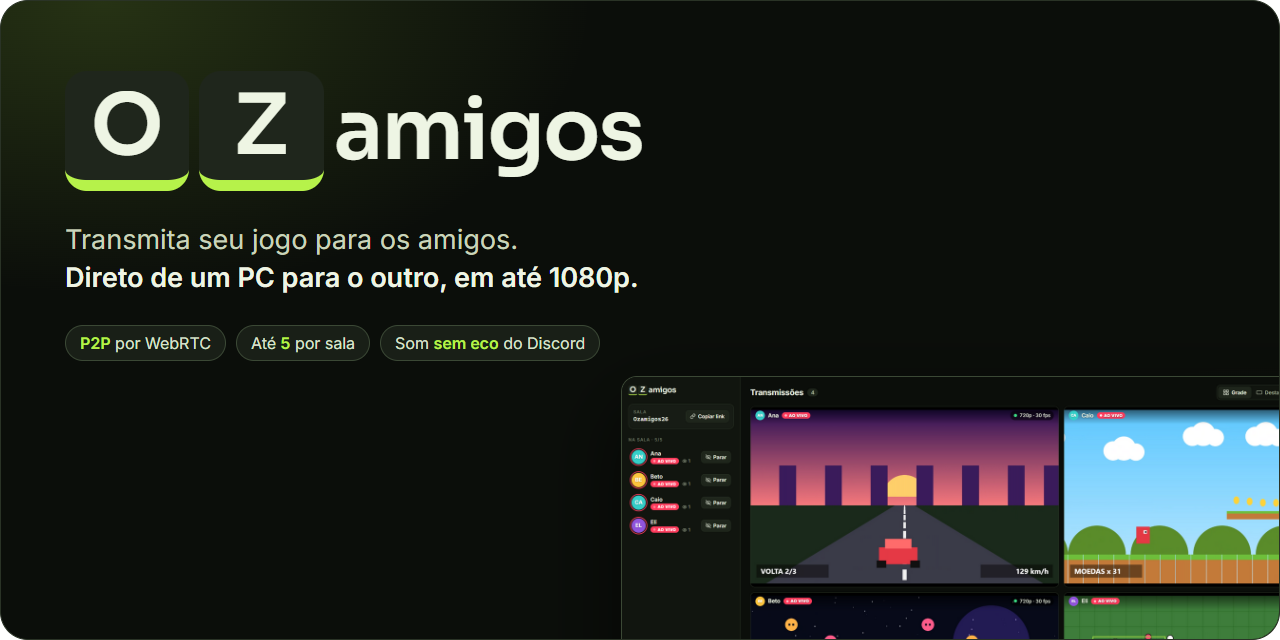
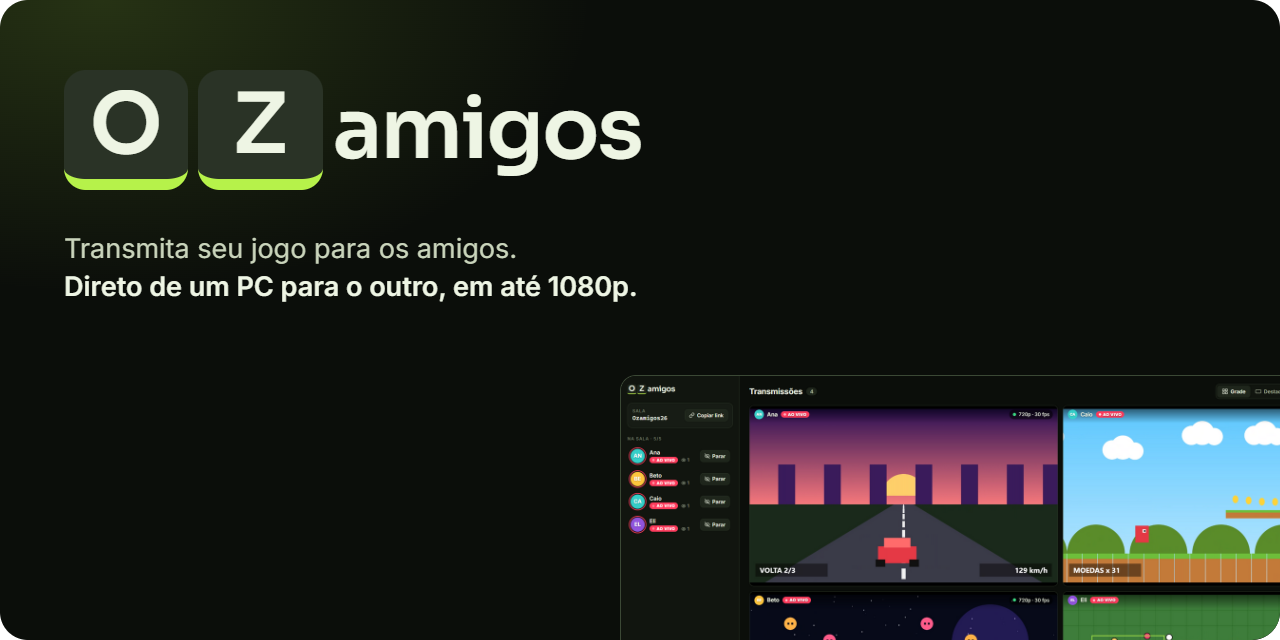
README com o logotipo no topo, no lugar da capa
- Logotipo em duas versões (tema claro e escuro do GitHub), escolhidas pelo <picture>
- Selo com a versão mais recente e links apontando para o repositório ozamigos
- docs/vitrine/marca.js gera o logotipo e a prévia de link

diff --git a/docs/vitrine/marca.html b/docs/vitrine/marca.html
@@ -1,0 +1,48 @@
+<!doctype html>
+<html lang="pt-BR">
+<head>
+<meta charset="utf-8">
+<style>
+  @font-face { font-family: 'Sora'; font-weight: 100 800; src: url('../../desktop/build/sora.woff2'); }
+  @font-face { font-family: 'Inter'; font-weight: 100 900; src: url('../../web/node_modules/@fontsource-variable/inter/files/inter-latin-wght-normal.woff2'); }
+  html, body { margin: 0; background: transparent; }
+
+  /* O logotipo: "O" e "Z" em teclas, seguidos de "amigos". */
+  .logo { display: inline-flex; align-items: center; padding: 6px; font-family: 'Sora'; font-weight: 600; font-size: 96px; letter-spacing: -0.02em; line-height: 1; }
+  .tecla { display: inline-grid; place-items: center; min-width: 1.2em; height: 1.3em; margin-right: 0.12em; padding: 0 0.14em; border-bottom: 0.14em solid #b6f24a; border-radius: 0.26em; letter-spacing: 0; }
+  /* Tema escuro do GitHub: tecla um pouco mais clara que o fundo e texto claro. */
+  .tema-escuro .tecla { background: #2a3326; color: #eef5e4; }
+  .tema-escuro .resto { color: #eef5e4; }
+  /* Tema claro: tecla escura, como num teclado, e texto quase preto. */
+  .tema-claro .tecla { background: #1f261c; color: #eef5e4; }
+  .tema-claro .resto { color: #0f130e; }
+
+  /* Prévia de link (1280x640): logotipo, frase e um pedaço da sala. */
+  .social { position: relative; overflow: hidden; width: 1280px; height: 640px; border-radius: 28px;
+    background: radial-gradient(700px 420px at 8% 0%, rgb(182 242 74 / 0.16), transparent 70%), #0b0e0a;
+    font-family: 'Inter', sans-serif; color: #eef5e4; }
+  .social .logo { position: absolute; left: 58px; top: 64px; font-size: 84px; }
+  .social .frase { position: absolute; left: 64px; top: 230px; margin: 0; font-size: 27px; line-height: 1.4; color: #c9d4bb; }
+  .social .frase strong { color: #eef5e4; font-weight: 600; }
+  .social .print { position: absolute; left: 620px; top: 375px; width: 760px; border-radius: 16px; border: 1px solid #3b4835; }
+  [hidden] { display: none !important; }
+</style>
+</head>
+<body>
+  <div id="logo" class="logo" hidden><span class="tecla">O</span><span class="tecla">Z</span><span class="resto">amigos</span></div>
+  <div id="social" class="social tema-escuro" hidden>
+    <div class="logo"><span class="tecla">O</span><span class="tecla">Z</span><span class="resto">amigos</span></div>
+    <p class="frase">Transmita seu jogo para os amigos.<br><strong>Direto de um PC para o outro, em até 1080p.</strong></p>
+    <img class="print" src="../imagens/sala-grade.png" alt="">
+  </div>
+  <script>
+    const modo = new URLSearchParams(location.search).get('modo');
+    if (modo === 'social') {
+      document.getElementById('social').hidden = false;
+    } else {
+      document.getElementById('logo').hidden = false;
+      document.body.classList.add(modo);
+    }
+  </script>
+</body>
+</html>

diff --git a/docs/vitrine/marca.js b/docs/vitrine/marca.js
@@ -1,0 +1,62 @@
+// Gera em docs/imagens:
+// - logo-tema-escuro.png e logo-tema-claro.png: o logotipo com fundo transparente (2x), um para cada tema do GitHub;
+// - social.png (1280x640): a prévia de link, enviada à mão em Settings → Social preview.
+// A social.png usa a docs/imagens/sala-grade.png: rode captura.js antes, se a interface mudou.
+// Uso, a partir da raiz: desktop\node_modules\.bin\electron docs\vitrine\marca.js
+const { app, BrowserWindow } = require('electron');
+const fs = require('node:fs');
+const path = require('node:path');
+
+app.commandLine.appendSwitch('force-device-scale-factor', '1');
+app.on('window-all-closed', () => {});
+
+const IMAGENS = path.join(__dirname, '..', 'imagens');
+
+async function abrir(modo, largura, altura, escala) {
+  const w = new BrowserWindow({
+    width: largura * escala,
+    height: altura * escala,
+    useContentSize: true,
+    show: false,
+    transparent: true,
+    backgroundColor: '#00000000',
+    webPreferences: { offscreen: true },
+  });
+  await w.loadFile(path.join(__dirname, 'marca.html'), { query: { modo } });
+  w.webContents.setZoomFactor(escala);
+  await w.webContents.executeJavaScript('document.fonts.ready.then(() => new Promise((r) => setTimeout(r, 400)))');
+  return w;
+}
+
+async function logo(modo, arquivo) {
+  const escala = 2;
+  const w = await abrir(modo, 900, 200, escala);
+  // Recorta só o logotipo: a imagem fica do tamanho exato dele.
+  const r = await w.webContents.executeJavaScript(
+    'JSON.parse(JSON.stringify(document.getElementById("logo").getBoundingClientRect()))',
+  );
+  const img = await w.webContents.capturePage({
+    x: Math.floor(r.x * escala),
+    y: Math.floor(r.y * escala),
+    width: Math.ceil(r.width * escala),
+    height: Math.ceil(r.height * escala),
+  });
+  fs.writeFileSync(path.join(IMAGENS, arquivo), img.toPNG());
+  console.log(arquivo, img.getSize());
+  w.destroy();
+}
+
+async function social() {
+  const w = await abrir('social', 1280, 640, 1);
+  const img = await w.webContents.capturePage();
+  fs.writeFileSync(path.join(IMAGENS, 'social.png'), img.toPNG());
+  console.log('social.png', img.getSize());
+  w.destroy();
+}
+
+app.whenReady().then(async () => {
+  await logo('tema-escuro', 'logo-tema-escuro.png');
+  await logo('tema-claro', 'logo-tema-claro.png');
+  await social();
+  app.quit();
+});

diff --git a/docs/vitrine/captura.js b/docs/vitrine/captura.js
@@ -2,7 +2,7 @@
 // senha "teste"), cada um com um "jogo" desenhado por código (jogo-falso.js).
 // Uso, a partir da raiz do repositório, com o servidor rodando e o ffmpeg no PATH:
 //   desktop\node_modules\.bin\electron docs\vitrine\captura.js
-// As imagens saem em docs/imagens. Depois, para a capa: desktop\node_modules\.bin\electron docs\vitrine\capa.js
+// As imagens saem em docs/imagens. Depois, para o logo e a prévia de link: desktop\node_modules\.bin\electron docs\vitrine\marca.js
 const { app, BrowserWindow, session } = require('electron');
 const { spawnSync } = require('node:child_process');
 const fs = require('node:fs');

diff --git a/AGENTS.md b/AGENTS.md
@@ -27,7 +27,7 @@ Deploy: Render (Docker). O `Dockerfile` tem 3 etapas: Node monta `web/`, o JDK c
 
 ## Marca
 
-- **Nome:** "Ozamigos" (até a 1.0.2 era "Ozamigos Share"). O nome novo vale para tudo o que o usuário vê. Os nomes internos ficam como estão: o repositório, o pacote `dev.ozamigos`, o `OzamigosSom.exe`, a variável `OZAMIGOS_SENHA`, as chaves `ozamigos-*` do `localStorage` e o endereço no Render.
+- **Nome:** "Ozamigos" (até a 1.0.2 era "Ozamigos Share"). O nome novo vale para tudo o que o usuário vê. O repositório público é `kayokalinauskas/ozamigos`. O antigo, `ozamigos-share-app`, ficou privado e parado, com o histórico anterior à troca do e-mail dos commits. Os nomes internos ficam como estão: o pacote `dev.ozamigos`, o `OzamigosSom.exe`, a variável `OZAMIGOS_SENHA`, as chaves `ozamigos-*` do `localStorage` e o endereço no Render.
 - **Não mude:**
   - o `appId` (`dev.ozamigos.share`): com ele, o instalador novo reconhece e substitui o antigo;
   - a pasta de dados `%APPDATA%\Ozamigos Share`, fixada com `app.setPath('userData', ...)` no topo do `main.js`. Sem isso, o nome novo levaria o Electron para uma pasta vazia e todos perderiam o servidor, o nome, a senha e os volumes.
@@ -144,14 +144,14 @@ java -jar target\ozamigos-share-0.0.1-SNAPSHOT.jar --spring.web.resources.static
 
 ## Imagens do README
 
-As telas, o GIF e a capa em `docs/imagens` são gerados por scripts em `docs/vitrine`, com a interface de verdade. **Refaça-os quando a interface mudar de cara.**
+O logotipo, as telas e o GIF em `docs/imagens` são gerados por scripts em `docs/vitrine`, com a interface de verdade. **Refaça-os quando a interface mudar de cara.**
 
 1. Monte a interface (`npm run build` em `web`) e suba o servidor local na porta **8090** com a senha **teste**.
 2. Na raiz: `desktop\node_modules\.bin\electron docs\vitrine\captura.js`. São janelas invisíveis, com o som mudo e as notificações bloqueadas.
    - Cinco amigos fictícios (Ana, Beto, Caio, Duda e Eli) entram na sala `Ozamigos26`, cada um transmitindo um "jogo" desenhado por código (`jogo-falso.js`). Nunca use imagem de jogo de verdade.
    - Saem `entrada.png`, `sala-grade.png`, `sala-destaque.png` e `demo.gif`. O GIF é montado pelo ffmpeg, que precisa estar no PATH.
    - No GIF, os cliques são eventos de mouse reais (`sendInputEvent`, para o `:hover` mostrar os controles), com um cursor desenhado por cima.
-3. Depois: `desktop\node_modules\.bin\electron docs\vitrine\capa.js`. Ele gera a `capa.png` (topo do README) e a `social.png` (prévia de link, enviada à mão em *Settings* → *Social preview* no GitHub).
+3. Depois: `desktop\node_modules\.bin\electron docs\vitrine\marca.js`. Ele gera o logotipo do topo do README em duas versões com fundo transparente, `logo-tema-escuro.png` e `logo-tema-claro.png`, escolhidas pelo `<picture>` conforme o tema do GitHub. Gera também a `social.png` (prévia de link, enviada à mão em *Settings* → *Social preview* no GitHub).
 
 As janelas que ninguém fotografa rodam a 4 quadros por segundo, e os amigos fictícios não assistem uns aos outros. Sem isso, o PC fica sobrecarregado e as fotos saem com "instável" e congelamentos.
 

diff --git a/README.md b/README.md
@@ -1,9 +1,17 @@
-<p align="center">
-  <img src="docs/imagens/capa.png" alt="Ozamigos: transmita seu jogo para os amigos, direto de um PC para o outro, em até 1080p" width="100%">
-</p>
+<br>
 
 <p align="center">
-  App para Windows e versão web, com salas protegidas por senha,<br>
+  <picture>
+    <source media="(prefers-color-scheme: dark)" srcset="docs/imagens/logo-tema-escuro.png">
+    <source media="(prefers-color-scheme: light)" srcset="docs/imagens/logo-tema-claro.png">
+    <img src="docs/imagens/logo-tema-claro.png" alt="Ozamigos" width="340">
+  </picture>
+</p>
+
+<h3 align="center">Transmita seu jogo para os amigos, direto de um PC para o outro.</h3>
+
+<p align="center">
+  Até 1080p, sem servidor de vídeo no meio. App para Windows e versão web, com salas protegidas por senha,<br>
   várias transmissões ao mesmo tempo e som do PC sem o eco do Discord.
 </p>
 
@@ -12,6 +20,7 @@
 </p>
 
 <p align="center">
+  <a href="../../releases/latest"><img src="https://img.shields.io/github/v/release/kayokalinauskas/ozamigos?style=flat-square&label=vers%C3%A3o&color=b6f24a" alt="Última versão"></a>
   <img src="https://img.shields.io/badge/Windows-10%20%7C%2011-1f261c?style=flat-square" alt="Windows 10 e 11">
   <img src="https://img.shields.io/badge/Java-25-1f261c?style=flat-square" alt="Java 25">
   <img src="https://img.shields.io/badge/Spring%20Boot-4.1-1f261c?style=flat-square" alt="Spring Boot 4.1">
@@ -237,9 +246,9 @@ Na tela de início, use `http://localhost:8080`. O app só aceita `http://` para
 
 ## Deploy no Render
 
-1. **Crie o repositório e envie o código:**
+1. **Tenha o código num repositório seu:** faça um *fork* deste no GitHub, ou envie uma cópia com:
    ```powershell
-   gh repo create ozamigos-share-app --private --source=. --push
+   gh repo create ozamigos --private --source=. --push
    ```
 2. No [Render](https://dashboard.render.com), clique em **New** → **Web Service** e escolha o repositório. Se ele não aparecer, clique em **Configure account** e libere o acesso a ele no GitHub.
 3. Preencha:
@@ -300,7 +309,7 @@ Em `desktop\dist` saem o `Ozamigos-Instalador-x.y.z.exe` (instala com atalhos e 
 gh release delete v1.0.1 --cleanup-tag --yes
 ```
 
-**Link fixo para os amigos** (com o repositório público): `https://github.com/<usuário>/ozamigos-share-app/releases/latest`
+**Link fixo para os amigos:** `https://github.com/kayokalinauskas/ozamigos/releases/latest` (sempre a versão mais nova).
 
 ---
 
